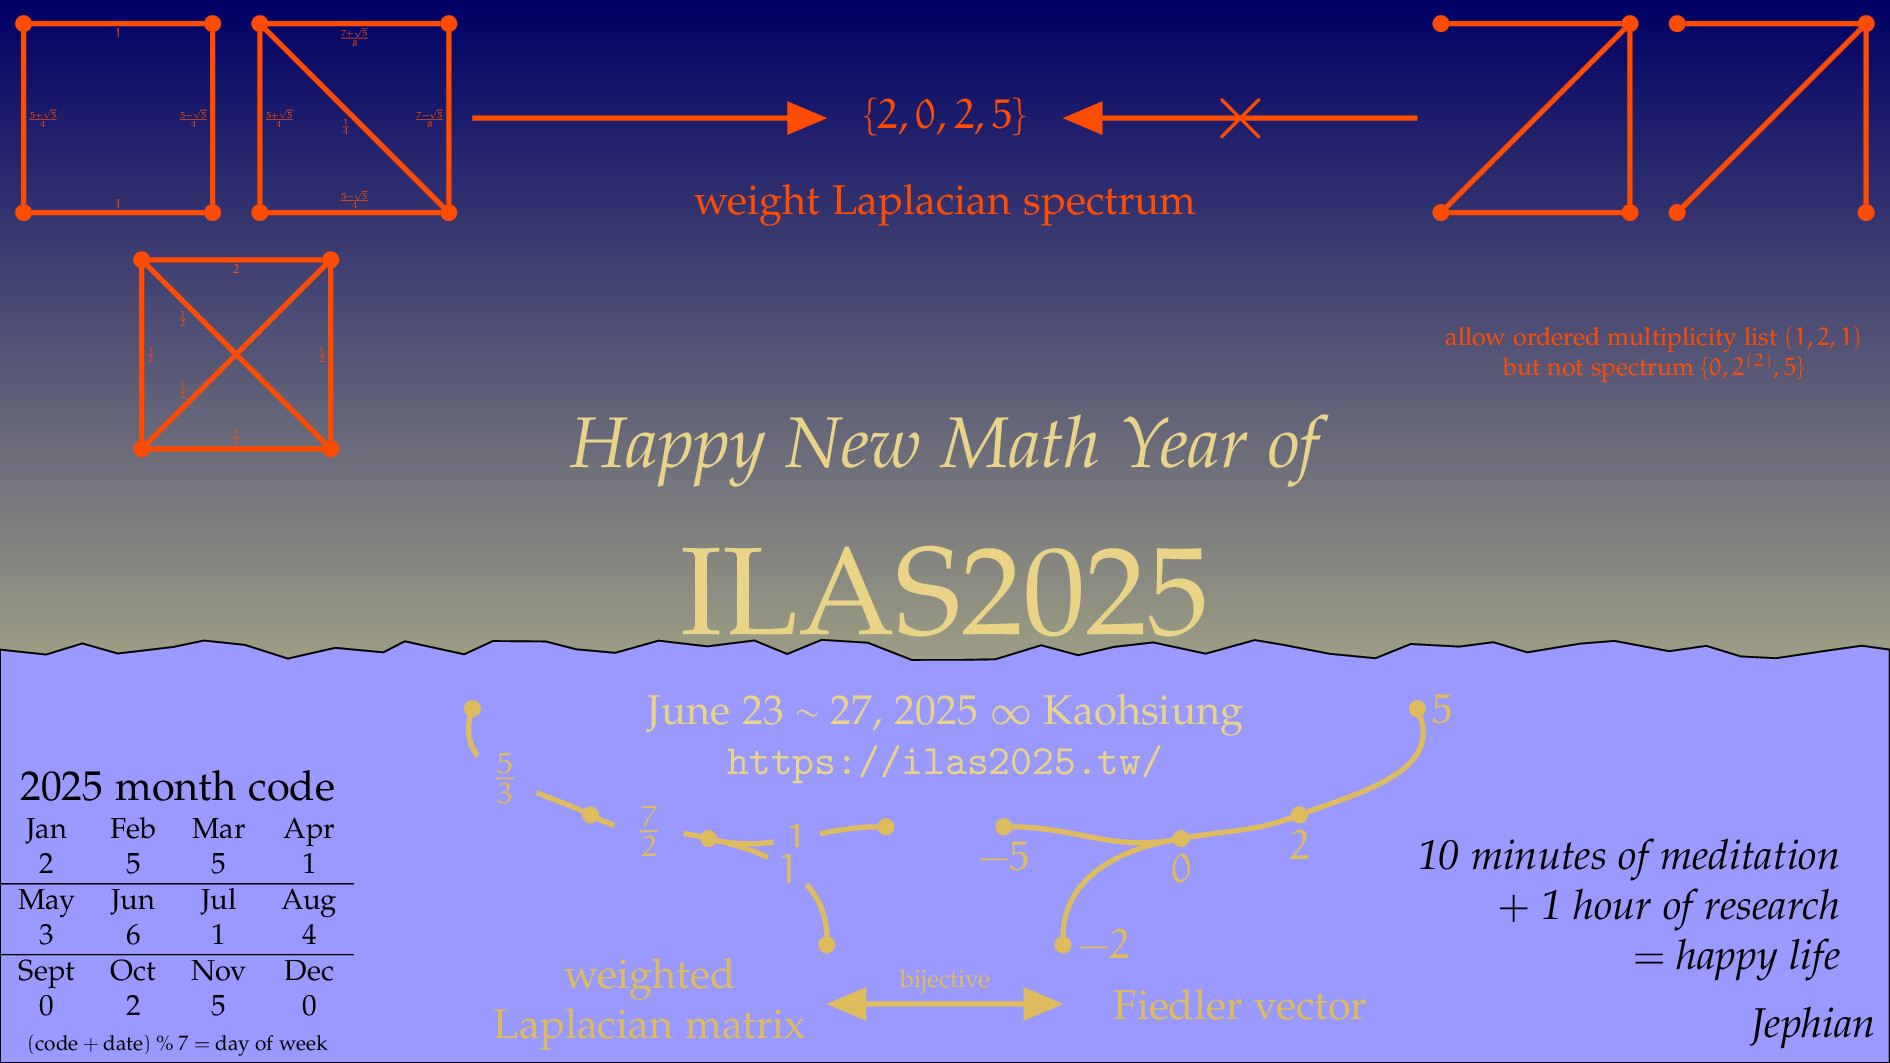
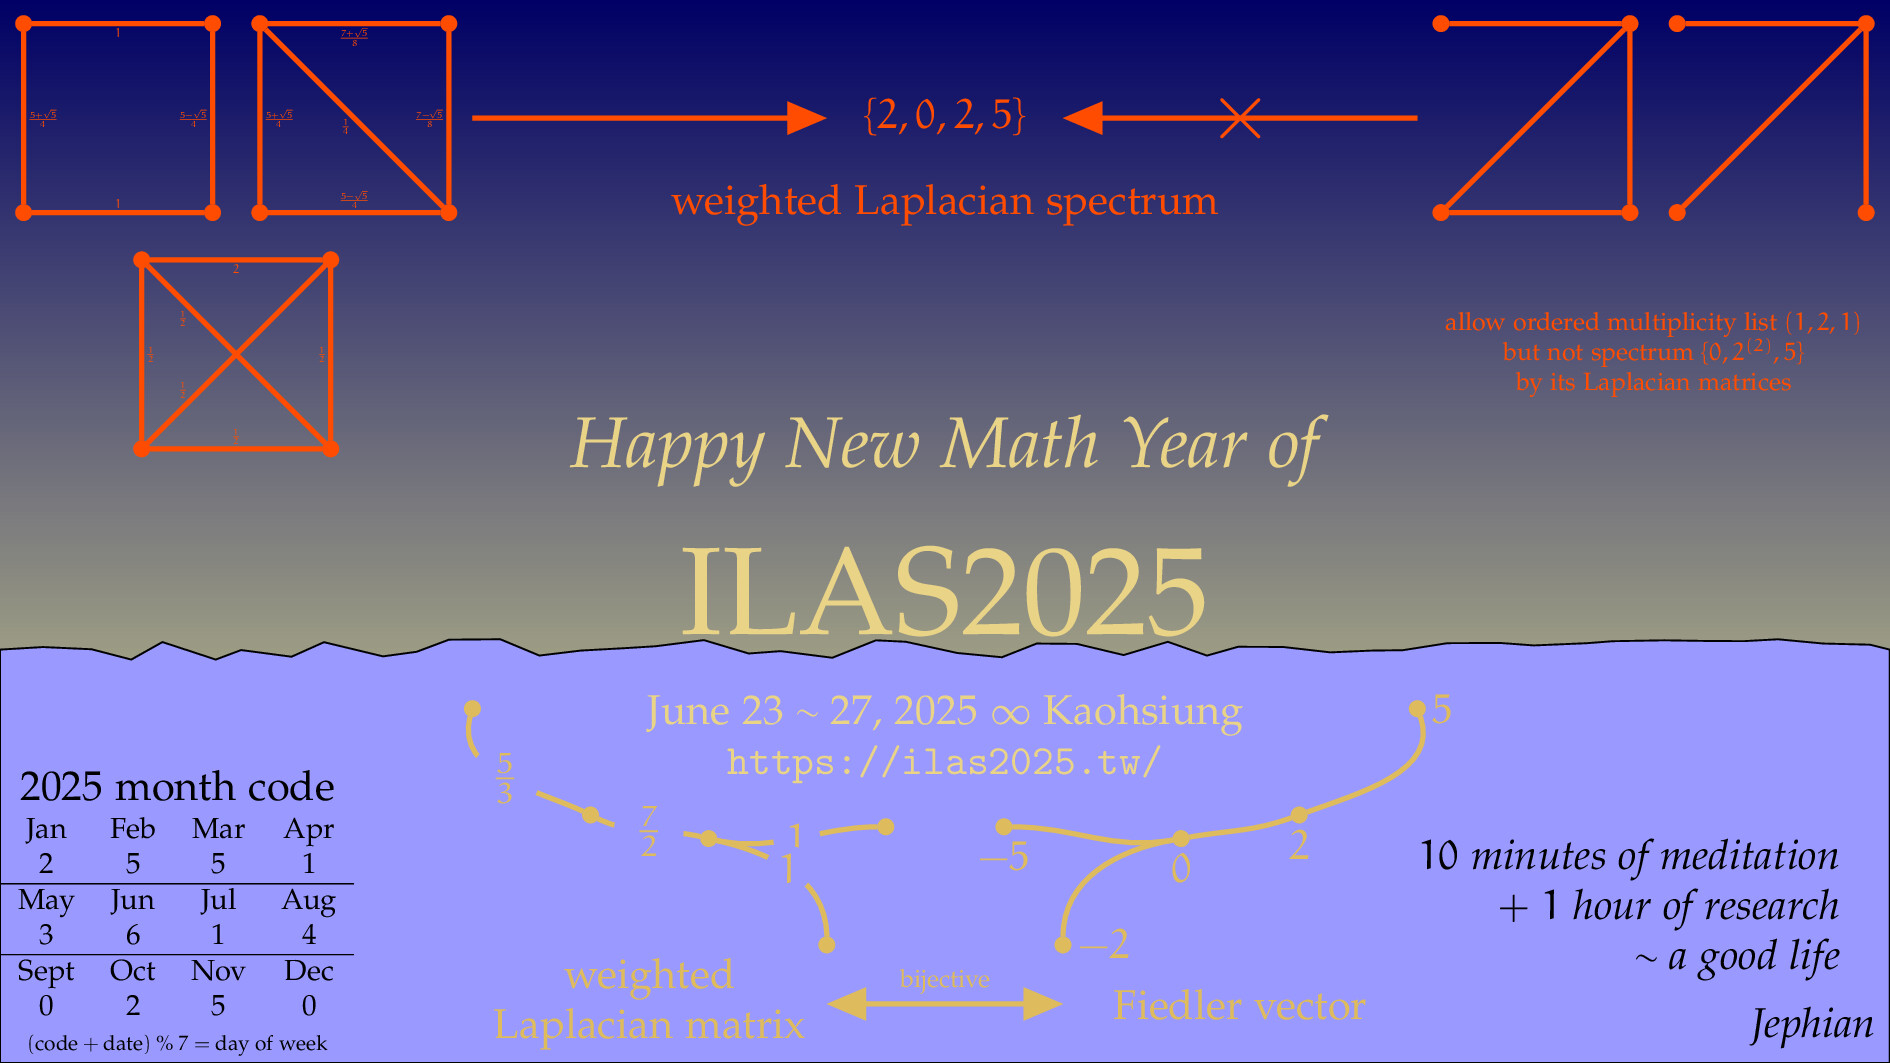
2025SnakeNewYear confirmed

diff --git a/NewYearCards/2025SnakeNewYear/2025SnakeNewYear.tex b/NewYearCards/2025SnakeNewYear/2025SnakeNewYear.tex
@@ -291,17 +291,19 @@ weight/.style={rectangle, draw=none, fill=none, scale=0.3, inner sep=3pt}]
 
 
 \node[rectangle, draw=none, fill=none] (spec) at (0,4) {$\{2,0,2,5\}$};
-\node[rectangle, draw=none, fill=none, below=0.5cm] (spec.south) at (0,4) {weight Laplacian spectrum};
+\node[rectangle, draw=none, fill=none, below=0.5cm] (spec.south) at (0,4) {weighted Laplacian spectrum};
 \draw[very thick, -triangle 45] (-4,4) -- (-1,4);
 \draw[very thick, -triangle 45] (4,4) --node[midway,draw=none,fill=none,scale=2] {$\times$} (1,4);
 \end{scope}
 
 % text: allow (1,2,1)
-\node[draw=none] at (6,2) {
-  \href{https://ilas2025.tw/}{
-    \tikz\node[red!40!orange, draw=none, rectangle, align=center, scale=0.6] at (0,0) {allow ordered multiplicity list $(1,2,1)$\\but not spectrum $\{0,2^{(2)},5\}$};
-  }
-};
+\node[draw=none, red!40!orange, align=center, scale=0.6] at (6,2) {allow ordered multiplicity list $(1,2,1)$\\but not spectrum $\{0,2^{(2)},5\}$\\by its Laplacian matrices};
+
+%% \node[draw=none] at (6,2) {
+%%   \href{https://ilas2025.tw/}{
+%%     \tikz\node[red!40!orange, draw=none, rectangle, align=center, scale=0.6] at (0,0) {allow ordered multiplicity list $(1,2,1)$\\but not spectrum $\{0,2^{(2)},5\}$\\by its Laplacian matrices};
+%%   }
+%% };
 
 \begin{scope}
 [xscale=1, 
@@ -378,9 +380,9 @@ Sept & Oct & Nov & Dec \\
 %%Goal
 % y 1.3 for three sentences
 \node[yshift=1.3cm, xshift=-0.3cm, left, align=right] at (Dominican) {
-\it 10 minutes of meditation \\
-\it $+$ 1 hour of research \\
-\it $=$ happy life};
+\it $10$ minutes of meditation \\
+\it $+$ $1$ hour of research \\
+\it $\sim$ a good life};
 
 %%Signature
 \node[yshift=0.3cm,left] at (Dominican) {\it Jephian};
